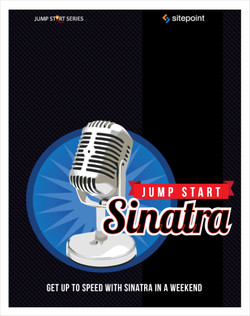
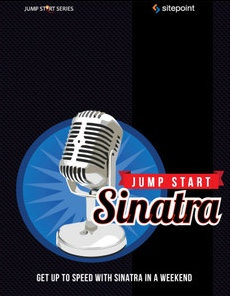
updating books

diff --git a/dist/books/index.html b/dist/books/index.html
@@ -26,27 +26,48 @@
 
 <h1 class="title brand-font gradient-text">Books</h1>
 
-<div class="project">
-<!-- markdown content starts -->
+<div class="book">
 
 <h3><a href="/books/jump-start-sinatra">Jump Start Sinatra</a></h3>
-<p>A short introduction to Sinatra, the micro Ruby framework</p>
-<!-- markdown content ends -->
+  <div class="align-horizontal">
+  <img src="/images/jump-start-sinatra.webp" alt="Jump Start Sinatra cover" class="dropshadow">
+
+  <p class="padding">
+  A short introduction to Sinatra, the micro Ruby framework. A full tutorial that takes you through building a full example project with a database backend to help demonstrate the concepts in a practical way.
+  </p>
+
+  </div>
+
 </div>
-<div class="project">
-<!-- markdown content starts -->
+
+<div class="book">
 
 <h3><a href="/books/javascript-novice-to-ninja">Javascript Novice To Ninja</a></h3>
-<p>A fun, practical, and comprehensive guide to the modern usage of programming language of the web</p>
-<!-- markdown content ends -->
+  <div class="align-horizontal">
+  <img src="/images/javascript-novice-to-ninja.webp" alt="JavaScript: Novice to Ninja cover" class="dropshadow">
+
+  <p class="padding">
+  A fun, practical, and comprehensive guide to the modern usage of programming language of the web. From the basics of programming, to events, DOM manipulation and animations.
+  </p>
+
+  </div>
+
 </div>
-<div class="project">
-<!-- markdown content starts -->
+
+<div class="book">
 
 <h3><a href="/books/learn-to-code-with-javascript">Learn To Code With Javascript</a></h3>
-<p>The perfect place to learn how to code using the most popular programming language on Earth!</p>
-<!-- markdown content ends -->
+  <div class="align-horizontal">
+  <img src="/images/learn-to-code.webp" alt="Learn To Code With JavaScript cover" class="dropshadow">
+
+  <p class="padding">
+  The perfect place to learn how to code using the most popular programming language on Earth! Starts from the very beginning and builds up with lots of practical examples, finsihing with a fully working game!
+  </p>
+
+  </div>
+
 </div>
+
 
   </main>
     <footer>

diff --git a/dist/tags/index.html b/dist/tags/index.html
@@ -22,22 +22,22 @@
       <h1 class="logo text-center"><a href="/" title="home"><span class="daz">DAZ</span><span class="codes mono-font">&lt;/codes&gt;</span></a></h1>
   </header>
     <main class="container">
-    <li><a href="/tags/books" class="swifty_link">books</a></li>
-<li><a href="/tags/javascript" class="swifty_link">javascript</a></li>
-<li><a href="/tags/ruby" class="swifty_link">ruby</a></li>
-<li><a href="/tags/sinatra" class="swifty_link">sinatra</a></li>
-<li><a href="/tags/coding" class="swifty_link">coding</a></li>
-<li><a href="/tags/career" class="swifty_link">career</a></li>
+    <li><a href="/tags/career" class="swifty_link">career</a></li>
 <li><a href="/tags/web development" class="swifty_link">web development</a></li>
+<li><a href="/tags/ruby" class="swifty_link">ruby</a></li>
 <li><a href="/tags/rails" class="swifty_link">rails</a></li>
 <li><a href="/tags/authentication" class="swifty_link">authentication</a></li>
 <li><a href="/tags/cipher" class="swifty_link">cipher</a></li>
 <li><a href="/tags/game" class="swifty_link">game</a></li>
+<li><a href="/tags/javascript" class="swifty_link">javascript</a></li>
 <li><a href="/tags/state" class="swifty_link">state</a></li>
 <li><a href="/tags/projects" class="swifty_link">projects</a></li>
 <li><a href="/tags/rubydoobydoo" class="swifty_link">rubydoobydoo</a></li>
 <li><a href="/tags/surge" class="swifty_link">surge</a></li>
 <li><a href="/tags/swifty" class="swifty_link">swifty</a></li>
+<li><a href="/tags/books" class="swifty_link">books</a></li>
+<li><a href="/tags/sinatra" class="swifty_link">sinatra</a></li>
+<li><a href="/tags/coding" class="swifty_link">coding</a></li>
   </main>
     <footer>
     <p>This site was built with Swifty, the super speedy static site generator.</p>

diff --git a/dist/tags/javascript/index.html b/dist/tags/javascript/index.html
@@ -23,12 +23,12 @@
   </header>
     <main class="container">
     <ul>
-<li><a href="/books/javascript-novice-to-ninja">Javascript Novice To Ninja</a></li>
-<li><a href="/books/learn-to-code-with-javascript">Learn To Code With Javascript</a></li>
 <li><a href="/projects/fruit-and-veg-cipher">Fruit And Veg Cipher</a></li>
 <li><a href="/projects/nanny-state">Nanny State</a></li>
 <li><a href="/projects/ruby-doo">Ruby Doo</a></li>
 <li><a href="/projects/surge">Surge</a></li>
+<li><a href="/books/javascript-novice-to-ninja">Javascript Novice To Ninja</a></li>
+<li><a href="/books/learn-to-code-with-javascript">Learn To Code With Javascript</a></li>
 </ul>
 
   </main>

diff --git a/dist/books/learn-to-code-with-javascript/index.html b/dist/books/learn-to-code-with-javascript/index.html
@@ -26,7 +26,7 @@
 
 <h1 class="title brand-font gradient-text">Learn To Code With Javascript</h1>
 
-<img src="/images/learn-to-code.webp" alt="Learn To Code With JavaScript cover" class="dropshadow">
+<img src="/images/learn-to-code.jpeg" alt="Learn To Code With JavaScript cover" class="dropshadow">
 
 <p>This easy-to-follow, practical, and fun guide is the perfect place to start on your coding journey.</p>
 <p>You&#39;ll be learning to program with JavaScript - the most popular programming language on Earth. And it runs in web browsers, making it particularly suited to creating web-based apps and games.</p>

diff --git a/dist/books/jump-start-sinatra/index.html b/dist/books/jump-start-sinatra/index.html
@@ -26,7 +26,7 @@
 
 <h1 class="title brand-font gradient-text">Jump Start Sinatra</h1>
 
-<img src="/images/jump-start-sinatra.webp" alt="Jump Start Sinatra cover" class="dropshadow">
+<img src="/images/jump-start-sinatra.jpeg" alt="Jump Start Sinatra cover" class="dropshadow">
 
 <p>This short SitePoint book provides readers with a fun and yet practical introduction to Sinatra, a framework that makes web development with Ruby extremely simple.</p>
 <p>The book is built around building a real-life example project in a fun and easily understandable and practical way.</p>

diff --git a/dist/books/javascript-novice-to-ninja/index.html b/dist/books/javascript-novice-to-ninja/index.html
@@ -26,7 +26,7 @@
 
 <h1 class="title brand-font gradient-text">Javascript Novice To Ninja</h1>
 
-<img src="/images/javascript-novice-to-ninja.webp" alt="JavaScript: Novice to Ninja cover" class="dropshadow">
+<img src="/images/javascript-novice-to-ninja.jpeg" alt="JavaScript: Novice to Ninja cover" class="dropshadow">
 
 <p>JavaScript is a must-have skill for all web developers.</p>
 <p>JavaScript: Novice to Ninja is a fun, practical, and comprehensive guide to the modern usage of this deceptively powerful language.</p>

diff --git a/dist/tags/ruby/index.html b/dist/tags/ruby/index.html
@@ -23,10 +23,10 @@
   </header>
     <main class="container">
     <ul>
-<li><a href="/books/jump-start-sinatra">Jump Start Sinatra</a></li>
 <li><a href="/blog/career-change">Career Change</a></li>
 <li><a href="/projects/authentication-with-registration">Authentication With Registration</a></li>
 <li><a href="/projects/ruby-doo">Ruby Doo</a></li>
+<li><a href="/books/jump-start-sinatra">Jump Start Sinatra</a></li>
 </ul>
 
   </main>

diff --git a/css/2-custom.css b/css/2-custom.css
@@ -135,6 +135,10 @@ h6 {
     margin-bottom: 0.4em;
 }
 
+.book img {
+    max-width: 100px;
+}
+
 .swifty_breadcrumb {
     text-decoration: none;
 }

diff --git a/dist/css/2-custom.css b/dist/css/2-custom.css
@@ -135,6 +135,10 @@ h6 {
     margin-bottom: 0.4em;
 }
 
+.book img {
+    max-width: 100px;
+}
+
 .swifty_breadcrumb {
     text-decoration: none;
 }

diff --git a/pages/books/jump-start-sinatra.md b/pages/books/jump-start-sinatra.md
@@ -1,13 +1,15 @@
 ---
-summary: A short introduction to Sinatra, the micro Ruby framework
+summary: A short introduction to Sinatra, the micro Ruby framework. A full tutorial that takes you through building a full example project with a database backend to help demonstrate the concepts in a practical way.
 position: 1
+image: /images/jump-start-sinatra.jpeg
+alt: Jump Start Sinatra cover
 tags:
   - ruby
   - sinatra
   - books
 ---
 
-<img src="/images/jump-start-sinatra.jpeg" alt="Jump Start Sinatra cover" class="dropshadow">
+<img src="{{ image }}" alt="{{ alt }}" class="dropshadow">
 
 This short SitePoint book provides readers with a fun and yet practical introduction to Sinatra, a framework that makes web development with Ruby extremely simple.
 

diff --git a/pages/books/learn-to-code-with-javascript.md b/pages/books/learn-to-code-with-javascript.md
@@ -1,13 +1,15 @@
 ---
-summary: The perfect place to learn how to code using the most popular programming language on Earth!
+summary: The perfect place to learn how to code using the most popular programming language on Earth! Starts from the very beginning and builds up with lots of practical examples, finsihing with a fully working game!
 position: 3
+image: /images/learn-to-code.jpeg
+alt: Learn To Code With JavaScript cover
 tags:
   - javascript
   - coding
   - books
 ---
 
-<img src="/images/learn-to-code.jpeg" alt="Learn To Code With JavaScript cover" class="dropshadow">
+<img src="{{ image }}" alt="{{ alt }}" class="dropshadow">
 
 This easy-to-follow, practical, and fun guide is the perfect place to start on your coding journey.
 

diff --git a/pages/books/javascript-novice-to-ninja.md b/pages/books/javascript-novice-to-ninja.md
@@ -1,12 +1,14 @@
 ---
-summary: A fun, practical, and comprehensive guide to the modern usage of programming language of the web
+summary: A fun, practical, and comprehensive guide to the modern usage of programming language of the web. From the basics of programming, to events, DOM manipulation and animations.
 position: 2
+image: /images/javascript-novice-to-ninja.jpeg
+alt: "JavaScript: Novice to Ninja cover"
 tags:
   - books
   - javascript
 ---
 
-<img src="/images/javascript-novice-to-ninja.jpeg" alt="JavaScript: Novice to Ninja cover" class="dropshadow">
+<img src="{{ image }}" alt="{{ alt }}" class="dropshadow">
 
 JavaScript is a must-have skill for all web developers.
 
